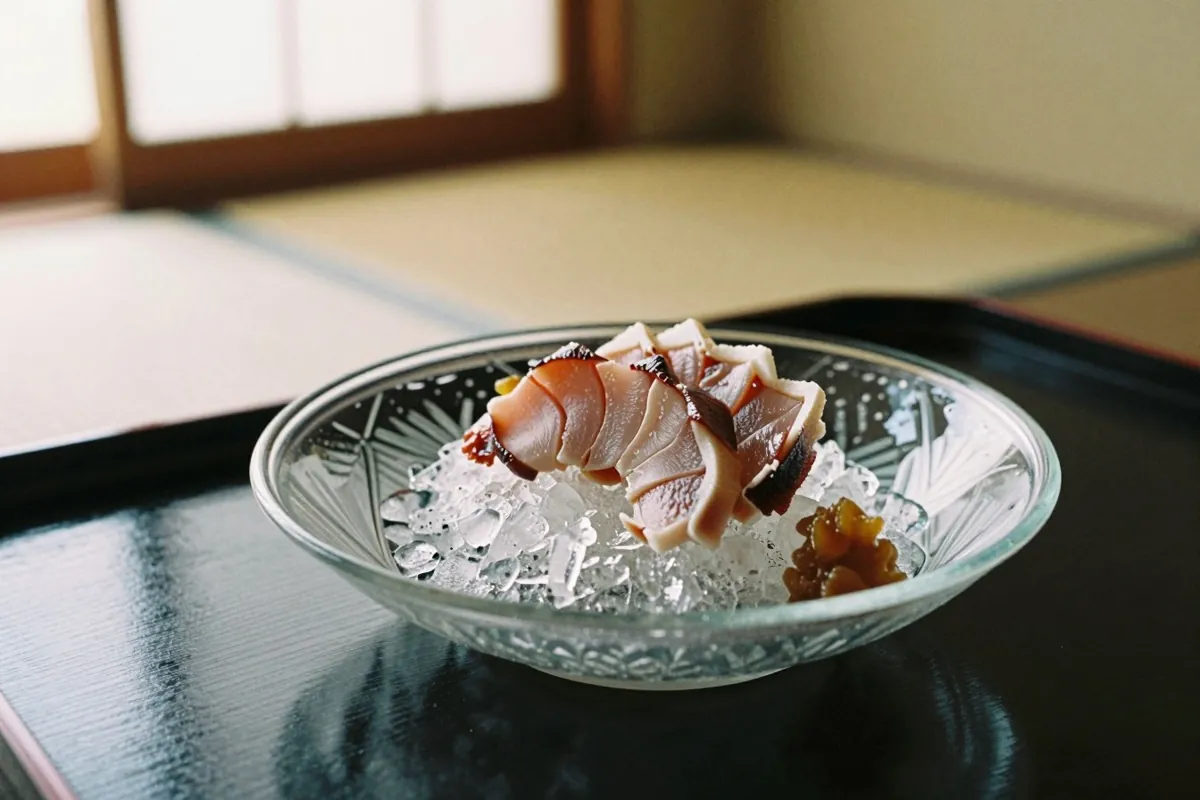
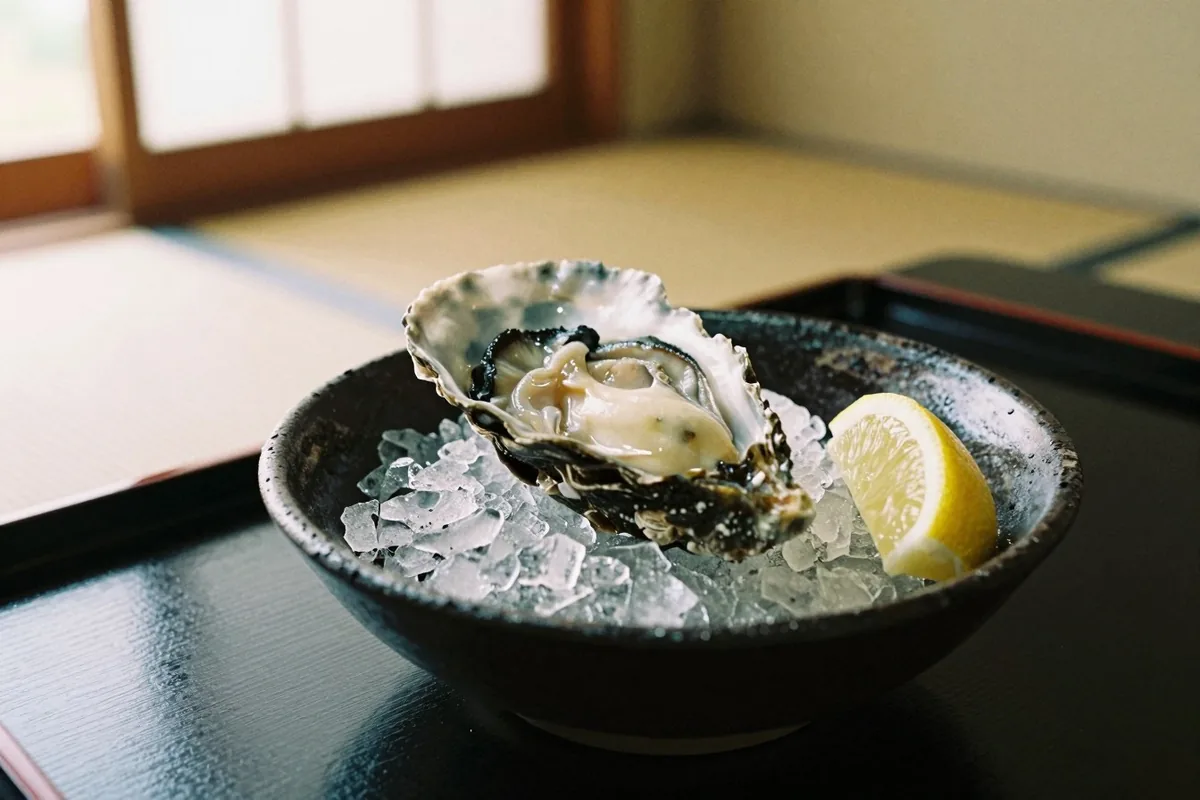
sumikawa-booklet: spring tuna and summer rock oyster dishes with finer vessels

diff --git a/sumikawa-booklet/cuisine/index.html b/sumikawa-booklet/cuisine/index.html
@@ -71,7 +71,7 @@
       <p class="eyebrow">夕餉</p><h2 class="heading-v press" id="dn">一皿ごとに、季節。</h2>
       <p class="prose">谷の空気がかわるたび、お皿の上も少しずつ変わっていきます。先付から水菓子まで、素材の持ち味を邪魔しないよう、手をかけすぎず、けれど手を抜かず。</p>
       <div style="margin:1.4rem 0 1rem"><div class="season-switch" role="group" aria-label="季節を選ぶ"><button class="season-switch__button js-season" type="button" data-season-value="spring" aria-pressed="false">春</button><button class="season-switch__button js-season" type="button" data-season-value="summer" aria-pressed="false">夏</button><button class="season-switch__button js-season" type="button" data-season-value="autumn" aria-pressed="false">秋</button><button class="season-switch__button js-season" type="button" data-season-value="winter" aria-pressed="false">冬</button></div></div>
-      <div class="kondate"><div><div data-s="spring"><ul class="kondate__list" aria-label="春の献立の例"><li class="kondate__item"><span class="kondate__label">先付</span><span class="kondate__name press">若竹煮</span></li><li class="kondate__item"><span class="kondate__label">椀</span><span class="kondate__name press">蛤の潮仕立て</span></li><li class="kondate__item"><span class="kondate__label">造り</span><span class="kondate__name press">鯛</span></li><li class="kondate__item"><span class="kondate__label">焼物</span><span class="kondate__name press">桜鱒の幽庵焼き</span></li><li class="kondate__item"><span class="kondate__label">煮物</span><span class="kondate__name press">菜の花と湯葉</span></li><li class="kondate__item"><span class="kondate__label">揚物</span><span class="kondate__name press">山菜の天ぷら</span></li><li class="kondate__item"><span class="kondate__label">食事</span><span class="kondate__name press">桜海老の炊き込みご飯</span></li><li class="kondate__item"><span class="kondate__label">水菓子</span><span class="kondate__name press">苺</span></li></ul></div><div data-s="summer"><ul class="kondate__list" aria-label="夏の献立の例"><li class="kondate__item"><span class="kondate__label">先付</span><span class="kondate__name press">鱧の落とし 梅肉</span></li><li class="kondate__item"><span class="kondate__label">椀</span><span class="kondate__name press">冬瓜</span></li><li class="kondate__item"><span class="kondate__label">造り</span><span class="kondate__name press">鱧の焼き霜</span></li><li class="kondate__item"><span class="kondate__label">焼物</span><span class="kondate__name press">和牛の炭火焼き</span></li><li class="kondate__item"><span class="kondate__label">煮物</span><span class="kondate__name press">茄子の揚げ浸し</span></li><li class="kondate__item"><span class="kondate__label">強肴</span><span class="kondate__name press">賀茂茄子の田楽</span></li><li class="kondate__item"><span class="kondate__label">食事</span><span class="kondate__name press">鱧寿司</span></li><li class="kondate__item"><span class="kondate__label">水菓子</span><span class="kondate__name press">水蜜桃</span></li></ul></div><div data-s="autumn"><ul class="kondate__list" aria-label="秋の献立の例"><li class="kondate__item"><span class="kondate__label">先付</span><span class="kondate__name press">菊菜のお浸し</span></li><li class="kondate__item"><span class="kondate__label">椀</span><span class="kondate__name press">松茸の土瓶蒸し</span></li><li class="kondate__item"><span class="kondate__label">造り</span><span class="kondate__name press">鰹の藁焼き</span></li><li class="kondate__item"><span class="kondate__label">揚物</span><span class="kondate__name press">甘鯛の松笠揚げ</span></li><li class="kondate__item"><span class="kondate__label">煮物</span><span class="kondate__name press">海老芋</span></li><li class="kondate__item"><span class="kondate__label">強肴</span><span class="kondate__name press">銀杏と秋野菜</span></li><li class="kondate__item"><span class="kondate__label">食事</span><span class="kondate__name press">松茸の土鍋ご飯</span></li><li class="kondate__item"><span class="kondate__label">水菓子</span><span class="kondate__name press">柿</span></li></ul></div><div data-s="winter"><ul class="kondate__list" aria-label="冬の献立の例"><li class="kondate__item"><span class="kondate__label">先付</span><span class="kondate__name press">蟹の酢の物</span></li><li class="kondate__item"><span class="kondate__label">椀</span><span class="kondate__name press">白味噌仕立て</span></li><li class="kondate__item"><span class="kondate__label">造り</span><span class="kondate__name press">てっさ</span></li><li class="kondate__item"><span class="kondate__label">焼物</span><span class="kondate__name press">鴨ロースの炙り</span></li><li class="kondate__item"><span class="kondate__label">煮物</span><span class="kondate__name press">蕪と海老</span></li><li class="kondate__item"><span class="kondate__label">強肴</span><span class="kondate__name press">蟹の甲羅焼き</span></li><li class="kondate__item"><span class="kondate__label">食事</span><span class="kondate__name press">蟹雑炊</span></li><li class="kondate__item"><span class="kondate__label">水菓子</span><span class="kondate__name press">柚子</span></li></ul></div><p class="note">※献立は季節ごとの例（サンプル）です。仕入れにより、内容は変わります。</p></div><div><div data-s="spring"><figure class="print"><div class="print__frame"><img src="../assets/img/cuisine/cuisine-spring.webp" alt="金縁の青磁の皿に、真珠色の鯛の造りとわさび。" loading="lazy" width="960" height="640"></div><figcaption>春の一皿　鯛の造り</figcaption></figure></div><div data-s="summer"><figure class="print"><div class="print__frame"><img src="../assets/img/cuisine/cuisine-summer.webp" alt="切子の器に氷を敷いた、鱧の落としと梅肉。" loading="lazy" width="960" height="640"></div><figcaption>夏の一皿　鱧の落とし</figcaption></figure></div><div data-s="autumn"><figure class="print"><div class="print__frame"><img src="../assets/img/cuisine/cuisine-autumn.webp" alt="黒い皿に、鱗を立てて揚げた甘鯛の松笠揚げと、すだち。" loading="lazy" width="960" height="640"></div><figcaption>秋の一皿　甘鯛の松笠揚げ</figcaption></figure></div><div data-s="winter"><figure class="print"><div class="print__frame"><img src="../assets/img/cuisine/cuisine-winter.webp" alt="染付の大皿に、菊の花のように並べたてっさ。" loading="lazy" width="960" height="640"></div><figcaption>冬の一皿　てっさ</figcaption></figure></div></div></div>
+      <div class="kondate"><div><div data-s="spring"><ul class="kondate__list" aria-label="春の献立の例"><li class="kondate__item"><span class="kondate__label">先付</span><span class="kondate__name press">若竹煮</span></li><li class="kondate__item"><span class="kondate__label">椀</span><span class="kondate__name press">蛤の潮仕立て</span></li><li class="kondate__item"><span class="kondate__label">造り</span><span class="kondate__name press">鮪（赤身）</span></li><li class="kondate__item"><span class="kondate__label">焼物</span><span class="kondate__name press">桜鱒の幽庵焼き</span></li><li class="kondate__item"><span class="kondate__label">煮物</span><span class="kondate__name press">菜の花と湯葉</span></li><li class="kondate__item"><span class="kondate__label">揚物</span><span class="kondate__name press">山菜の天ぷら</span></li><li class="kondate__item"><span class="kondate__label">食事</span><span class="kondate__name press">桜海老の炊き込みご飯</span></li><li class="kondate__item"><span class="kondate__label">水菓子</span><span class="kondate__name press">苺</span></li></ul></div><div data-s="summer"><ul class="kondate__list" aria-label="夏の献立の例"><li class="kondate__item"><span class="kondate__label">先付</span><span class="kondate__name press">岩牡蠣</span></li><li class="kondate__item"><span class="kondate__label">椀</span><span class="kondate__name press">冬瓜</span></li><li class="kondate__item"><span class="kondate__label">造り</span><span class="kondate__name press">鱧の焼き霜</span></li><li class="kondate__item"><span class="kondate__label">焼物</span><span class="kondate__name press">和牛の炭火焼き</span></li><li class="kondate__item"><span class="kondate__label">煮物</span><span class="kondate__name press">茄子の揚げ浸し</span></li><li class="kondate__item"><span class="kondate__label">強肴</span><span class="kondate__name press">賀茂茄子の田楽</span></li><li class="kondate__item"><span class="kondate__label">食事</span><span class="kondate__name press">鱧寿司</span></li><li class="kondate__item"><span class="kondate__label">水菓子</span><span class="kondate__name press">水蜜桃</span></li></ul></div><div data-s="autumn"><ul class="kondate__list" aria-label="秋の献立の例"><li class="kondate__item"><span class="kondate__label">先付</span><span class="kondate__name press">菊菜のお浸し</span></li><li class="kondate__item"><span class="kondate__label">椀</span><span class="kondate__name press">松茸の土瓶蒸し</span></li><li class="kondate__item"><span class="kondate__label">造り</span><span class="kondate__name press">鰹の藁焼き</span></li><li class="kondate__item"><span class="kondate__label">揚物</span><span class="kondate__name press">甘鯛の松笠揚げ</span></li><li class="kondate__item"><span class="kondate__label">煮物</span><span class="kondate__name press">海老芋</span></li><li class="kondate__item"><span class="kondate__label">強肴</span><span class="kondate__name press">銀杏と秋野菜</span></li><li class="kondate__item"><span class="kondate__label">食事</span><span class="kondate__name press">松茸の土鍋ご飯</span></li><li class="kondate__item"><span class="kondate__label">水菓子</span><span class="kondate__name press">柿</span></li></ul></div><div data-s="winter"><ul class="kondate__list" aria-label="冬の献立の例"><li class="kondate__item"><span class="kondate__label">先付</span><span class="kondate__name press">蟹の酢の物</span></li><li class="kondate__item"><span class="kondate__label">椀</span><span class="kondate__name press">白味噌仕立て</span></li><li class="kondate__item"><span class="kondate__label">造り</span><span class="kondate__name press">てっさ</span></li><li class="kondate__item"><span class="kondate__label">焼物</span><span class="kondate__name press">鴨ロースの炙り</span></li><li class="kondate__item"><span class="kondate__label">煮物</span><span class="kondate__name press">蕪と海老</span></li><li class="kondate__item"><span class="kondate__label">強肴</span><span class="kondate__name press">蟹の甲羅焼き</span></li><li class="kondate__item"><span class="kondate__label">食事</span><span class="kondate__name press">蟹雑炊</span></li><li class="kondate__item"><span class="kondate__label">水菓子</span><span class="kondate__name press">柚子</span></li></ul></div><p class="note">※献立は季節ごとの例（サンプル）です。仕入れにより、内容は変わります。</p></div><div><div data-s="spring"><figure class="print"><div class="print__frame"><img src="../assets/img/cuisine/cuisine-spring.webp" alt="黒い角皿に、艶のある赤身の鮪の造りとわさび。" loading="lazy" width="960" height="640"></div><figcaption>春の一皿　鮪の造り</figcaption></figure></div><div data-s="summer"><figure class="print"><div class="print__frame"><img src="../assets/img/cuisine/cuisine-summer.webp" alt="備前焼の鉢に砕いた氷を敷いた、岩牡蠣とレモン。" loading="lazy" width="960" height="640"></div><figcaption>夏の一皿　岩牡蠣</figcaption></figure></div><div data-s="autumn"><figure class="print"><div class="print__frame"><img src="../assets/img/cuisine/cuisine-autumn.webp" alt="黒い皿に、鱗を立てて揚げた甘鯛の松笠揚げと、すだち。" loading="lazy" width="960" height="640"></div><figcaption>秋の一皿　甘鯛の松笠揚げ</figcaption></figure></div><div data-s="winter"><figure class="print"><div class="print__frame"><img src="../assets/img/cuisine/cuisine-winter.webp" alt="染付の大皿に、菊の花のように並べたてっさ。" loading="lazy" width="960" height="640"></div><figcaption>冬の一皿　てっさ</figcaption></figure></div></div></div>
     </div></section>
     <section class="fold fold--spread" aria-labelledby="ut"><div class="fold__inner"><div class="spread">
       <div><h2 class="heading-v press" id="ut">器と盛り付け</h2><div class="vtext press"><p>器は、料理が引き立つものを。</p><p>色の少ない器には、旬の彩りを一点だけ添えます。</p><p>料理が運ばれてくる、その一瞬も、お料理のうちだと考えています。</p></div><p class="note">今の季節の二皿目：<span data-s="spring">若竹煮</span><span data-s="summer">和牛の炭火焼き</span><span data-s="autumn">松茸の土鍋ご飯</span><span data-s="winter">蟹</span></p></div>
